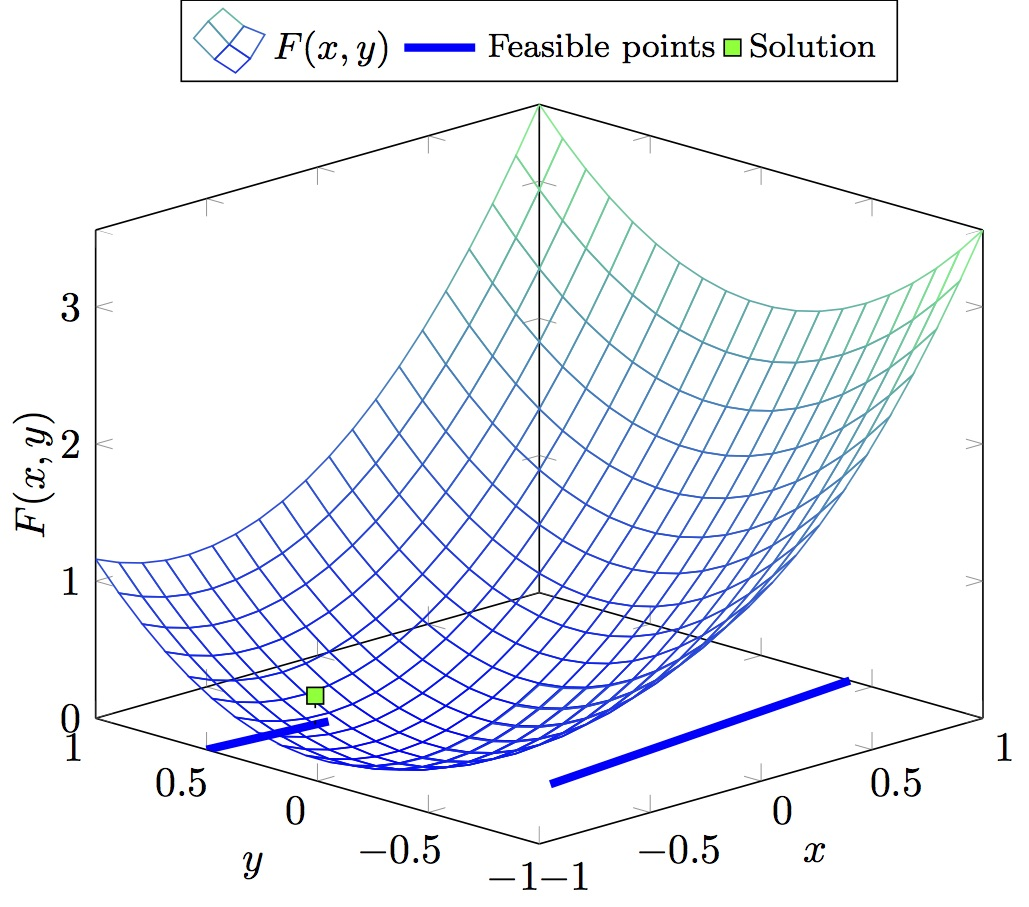
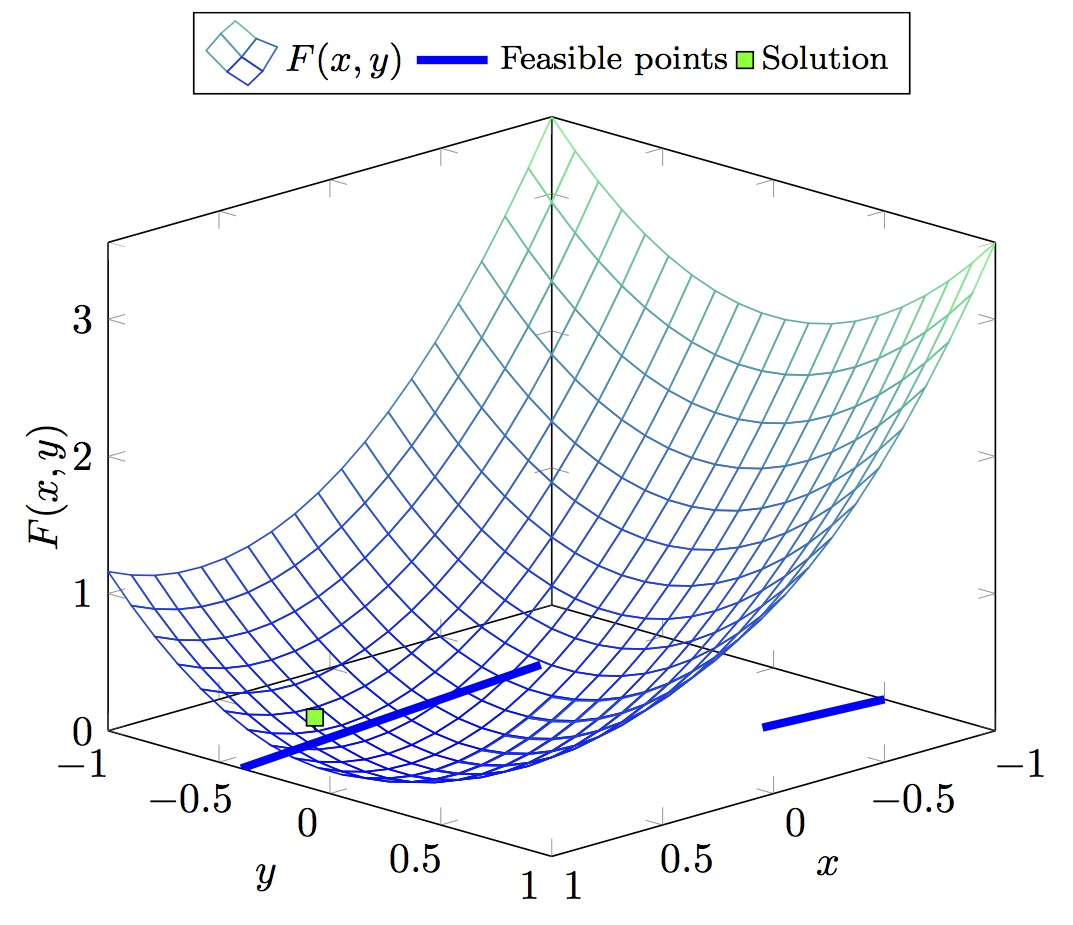
Added new QP-NLP type instance

diff --git a/QP-NLP/mb_2007_22.md b/QP-NLP/mb_2007_22.md
@@ -1,21 +1,39 @@
-[Quadratic-Nonlinear](/BASBLib/QP-NLP-problems) bilevel problem from [\[Mitsos & Barton, 2007\]][Mitsos & Barton, 2007]
+[mb_2007_22](/BASBLib/QP-NLP/mb_2007_22) : [Quadratic-Nonlinear](/BASBLib/QP-NLP-problems) bilevel problem from [\[Mitsos & Barton, 2007\]][Mitsos & Barton, 2007]
 
 ---
 
 ![](/BASBLib/images/mb_2007_22_eq.jpg)
 
+## Comments on the problem
+
+The solution reported in the original source is incorrect. We introduce new problem [mb_2007_22v](http://basblsolver.github.io/BASBLib/QP-NLP/mb_2007_22v), which optimal solution is very close to the solution of this problem.
+
 ## Optimal solution
 
 Objective values   | Solution point(s) |
 ------------------ | ----------------- |
-F* = 0.210         | _x_* = -0.555     |
-f* = -0.069        | _y_* = 0.455      |
+F* = 0.189         | _x_* = 0.635      |
+f* = -0.042        | _y_* = -0.433     |
+
 
 ## Illustration of the problem
 
 Outer Problem    | Inner Problem    |
 ---------------- | ---------------- |
 <img src="/BASBLib/images/mb_2007_22_outer.jpg" width="400"> | <img src="/BASBLib/images/mb_2007_22_inner.jpg" width="400"> |
+
+## Sources where this problem occur
+
+__Original source:__
+
+ - __Example 3.22 (mb\_1\_1\_15)__ in [(Mitsos & Barton, 2007)][Mitsos & Barton, 2007]
+
+__Other sources:__
+
+ - __mb\_1\_1\_15__ in [(Mitsos et al., 2008)][Mitsos et al., 2008]
+ - __Problem No. 24__ from _Table 4_ in [(Kleniati & Adjiman, 2014)][Kleniati & Adjiman, 2014]
+ - __Example 5.9, Problem No. 3__ in [(Nie et al., 2017)][Nie et al., 2017]
+
 
 ## Description in the `AMPL` format
 
@@ -24,7 +42,7 @@ var x >= -1, <= 1;        # Outer variables
 var y >= -1, <= 1;        # Inner variables
 var l{1..3} >= 0, <= 10;  # Multipliers
 
-minimize outer_obj: (x + 0.6)^2 + y^2;
+minimize outer_obj: (x - 0.6)^2 + y^2;
 
 subject to
 # Inner objective
@@ -40,9 +58,16 @@ subject to
 
 ##  References
 
+ - [P.-M. Kleniati and C. S. Adjiman, Branch-and-Sandwich: a deterministic global optimization algorithm for optimistic bilevel programming problems. Part II: Convergence analysis and numerical results, Journal of Global Optimization, 60 (2014), pp. 459–481](https://doi.org/10.1007/s10898-013-0120-8)
  - [A. Mitsos and P. I. Barton, A Test Set for Bilevel Programs, 2007. (Last updated September 19, 2007)](https://www.researchgate.net/publication/228455291_A_test_set_for_bilevel_programs)
+ - [A. Mitsos, P. Lemonidis, and P. I. Barton, Global solution of bilevel programs with a nonconvex inner program, Journal of Global Optimization, 42 (2008), pp. 475–513](https://doi.org/10.1007/s10898-007-9260-z)
+ - [J. Nie, L. Wang, and J. Ye, Bilevel polynomial programs and semidefinite relaxation methods, SIAM Journal on Optimization, 27 (2017), pp. 1728–1757](https://doi.org/10.1137/15M1052172)
+
 
 [<img src="http://www.interupgrade.com/images/pfeil-backbutton.png" width="40" height="40">](/BASBLib/QP-NLP-problems "Back to summary of QP-NLP bilevel problems")
 [<img src="https://cdn1.iconfinder.com/data/icons/MetroStation-PNG/128/MB__home.png" width="40" height="40">](/BASBLib/index "Back to homepage")
 
+[Kleniati & Adjiman, 2014]: https://doi.org/10.1007/s10898-013-0120-8
 [Mitsos & Barton, 2007]: https://www.researchgate.net/publication/228455291_A_test_set_for_bilevel_programs
+[Mitsos et al., 2008]: https://doi.org/10.1007/s10898-007-9260-z
+[Nie et al., 2017]: https://doi.org/10.1137/15M1052172

diff --git a/QP-NLP/mb_2007_22v.md b/QP-NLP/mb_2007_22v.md
@@ -1,0 +1,52 @@
+[mb_2007_22v](/BASBLib/QP-NLP/mb_2007_22v) : [Quadratic-Nonlinear](/BASBLib/QP-NLP-problems) bilevel problem from [\[Mitsos & Barton, 2007\]][Mitsos & Barton, 2007]
+
+---
+
+![](/BASBLib/images/mb_2007_22v_eq.jpg)
+
+## Comments on the problem
+
+This is a variation of [mb_2007_22](http://basblsolver.github.io/BASBLib/QP-NLP/mb_2007_22) problem. The only difference is the outer objective function, which is changed from `(x - 0.6)^2 + y^2` to `(x + 0.6)^2 + y^2`.
+
+## Optimal solution
+
+Objective values   | Solution point(s) |
+------------------ | ----------------- |
+F* = 0.210         | _x_* = -0.555     |
+f* = -0.069        | _y_* = 0.455      |
+
+## Illustration of the problem
+
+Outer Problem    | Inner Problem    |
+---------------- | ---------------- |
+<img src="/BASBLib/images/mb_2007_22v_outer.jpg" width="400"> | <img src="/BASBLib/images/mb_2007_22v_inner.jpg" width="400"> |
+
+## Description in the `AMPL` format
+
+```ruby
+var x >= -1, <= 1;        # Outer variables
+var y >= -1, <= 1;        # Inner variables
+var l{1..3} >= 0, <= 10;  # Multipliers
+
+minimize outer_obj: (x + 0.6)^2 + y^2;
+
+subject to
+# Inner objective
+    inner_obj: y^4 + (4/30)*(-x+1)*y^3 + (-0.02*x^2+0.16*x-0.4)*y^2 + (0.004*x^3-0.036*x^2+0.08*x)*y = 0;
+# Inner constraints
+    inner_con: 0.01*(1+x^2) - y^2 <= 0;
+# KKT conditions
+    stationarity:      0.004*x^3-0.036*x^2+0.08*x + (-0.04*x^2+0.32*x-0.8-2*l[3])*y + (-0.4*x+0.4)*y^2 + 4*y^3 - l[1] + l[2] = 0;
+    complementarity_1: l[1]*(-1 - y) = 0;
+    complementarity_2: l[2]*(y - 1) = 0;
+    complementarity_3: l[3]*(0.01*(1+x^2) - y^2) = 0;
+```
+
+##  References
+
+ - [A. Mitsos and P. I. Barton, A Test Set for Bilevel Programs, 2007. (Last updated September 19, 2007)](https://www.researchgate.net/publication/228455291_A_test_set_for_bilevel_programs)
+
+[<img src="http://www.interupgrade.com/images/pfeil-backbutton.png" width="40" height="40">](/BASBLib/QP-NLP-problems "Back to summary of QP-NLP bilevel problems")
+[<img src="https://cdn1.iconfinder.com/data/icons/MetroStation-PNG/128/MB__home.png" width="40" height="40">](/BASBLib/index "Back to homepage")
+
+[Mitsos & Barton, 2007]: https://www.researchgate.net/publication/228455291_A_test_set_for_bilevel_programs

diff --git a/index.md b/index.md
@@ -75,12 +75,12 @@ View a summary table of [all LP-NLP problems](LP-NLP-problems) or click on a pro
 
 View a summary table of [all QP-NLP problems](QP-NLP-problems) or click on a problem name for more information.
 
-|                                 |                                    |                                  |                                 |                                   |
-| :------------------------------ | :--------------------------------- | :------------------------------- | :------------------------------ | :-------------------------------- |
-[mb_2007_12](QP-NLP/mb_2007_12)   | [mb_2007_14](QP-NLP/mb_2007_14)    | [mb_2007_17](QP-NLP/mb_2007_17)  | [mb_2007_18](QP-NLP/mb_2007_18) | [mb_2007_18v](QP-NLP/mb_2007_18v) |
-[mb_2007_19](QP-NLP/mb_2007_19)   | [mb_2007_20](QP-NLP/mb_2007_20)    | [mb_2007_21](QP-NLP/mb_2007_21)  | [mb_2007_23](QP-NLP/mb_2007_23) | [mb_2007_22](QP-NLP/mb_2007_22)   | 
-[dd_2012_01](QP-NLP/dd_2012_01)   | [sib_1997_01](QP-NLP/sib_1997_01)  | [yz_2010_01](QP-NLP/yz_2010_01)  | [mb_2007_08](QP-NLP/mb_2007_08) | [c_2002_02](QP-NLP/c_2002_02)     | 
-[c_2002_04](QP-NLP/c_2002_04)     |
+|                                 |                                    |                                   |                                 |                                   |
+| :------------------------------ | :--------------------------------- | :-------------------------------- | :------------------------------ | :-------------------------------- |
+[mb_2007_12](QP-NLP/mb_2007_12)   | [mb_2007_14](QP-NLP/mb_2007_14)    | [mb_2007_17](QP-NLP/mb_2007_17)   | [mb_2007_18](QP-NLP/mb_2007_18) | [mb_2007_18v](QP-NLP/mb_2007_18v) |
+[mb_2007_19](QP-NLP/mb_2007_19)   | [mb_2007_20](QP-NLP/mb_2007_20)    | [mb_2007_21](QP-NLP/mb_2007_21)   | [mb_2007_23](QP-NLP/mb_2007_23) | [mb_2007_22](QP-NLP/mb_2007_22)   | 
+[mb_2007_22](QP-NLP/mb_2007_22v)  | [dd_2012_01](QP-NLP/dd_2012_01)    | [sib_1997_01](QP-NLP/sib_1997_01) | [yz_2010_01](QP-NLP/yz_2010_01) | [mb_2007_08](QP-NLP/mb_2007_08)   | 
+[c_2002_02](QP-NLP/c_2002_02)     | [c_2002_04](QP-NLP/c_2002_04)      |
 
 ## [Nonlinear-Nonlinear (NLP-NLP)](NLP-NLP-problems)
 

diff --git a/QP-NLP-problems.md b/QP-NLP-problems.md
@@ -14,7 +14,8 @@ Description of the [Quadratic-Nonlinear](QP-NLP-problems) bilevel test problems:
 | [mb_2007_20](QP-NLP/mb_2007_20)    | [(Mitsos & Barton, 2007)][Mitsos & Barton, 2007]            |  1    |   1   |  0.313    | -0.083  | 0.500                             | 0.500                   |
 | [mb_2007_21](QP-NLP/mb_2007_21)    | [(Mitsos & Barton, 2007)][Mitsos & Barton, 2007]            |  1    |   1   |  0.210    | -0.069  | -0.555                            | 0.455                   |
 | [mb_2007_23](QP-NLP/mb_2007_23)    | [(Mitsos & Barton, 2007)][Mitsos & Barton, 2007]            |  1    |   1   | -1.755    |  0.009  |  0.211                            | 1.799                   |
-| [mb_2007_22](QP-NLP/mb_2007_22)    | [(Mitsos & Barton, 2007)][Mitsos & Barton, 2007]            |  1    |   1   |  0.210    | -0.069  | -0.555                            | 0.455                   |
+| [mb_2007_22](QP-NLP/mb_2007_22)    | [(Mitsos & Barton, 2007)][Mitsos & Barton, 2007]            |  1    |   1   |  0.189    | -0.042  | 0.635                             | -0.433                  |
+| [mb_2007_22v](QP-NLP/mb_2007_22v)  | [(Paulavicius et al., 2017b)][Paulavicius et al., 2017b]    |  1    |   1   |  0.210    | -0.069  | -0.555                            | 0.455                   |
 | [dd_2012_01](QP-NLP/dd_2012_01)    | [(Dempe & Dutta, 2012)][Dempe & Dutta, 2012]                |  1    |   1   |  1.000    | 0.000   | 0.000                             | 0.000                   |
 | [sib_1997_01](QP-NLP/sib_1997_01)  | [(Shimizu et al., 1997)][Shimizu et al., 1997]              |  1    |   1   |  2250.000 | 194.800 | 11.250                            | 5.000                   |
 | [yz_2010_01](QP-NLP/yz_2010_01)    | [(Ye & Zhu, 2010)][Ye & Zhu, 2010]                          |  1    |   1   |  1.000    | -2.000  | 1.000                             | 1.000                   |

diff --git a/QP-NLP/yz_2010_01.md b/QP-NLP/yz_2010_01.md
@@ -16,7 +16,7 @@ f* = -2.000        | _y_* = 1.000            |
 
 __Original source:__
 
- - _Example 4.2_ in [(Ye & Zhu, 2010)][Ye & Zhu, 2010]
+ - __Example 4.2__ in [(Ye & Zhu, 2010)][Ye & Zhu, 2010]
 
 __Other sources:__
 
